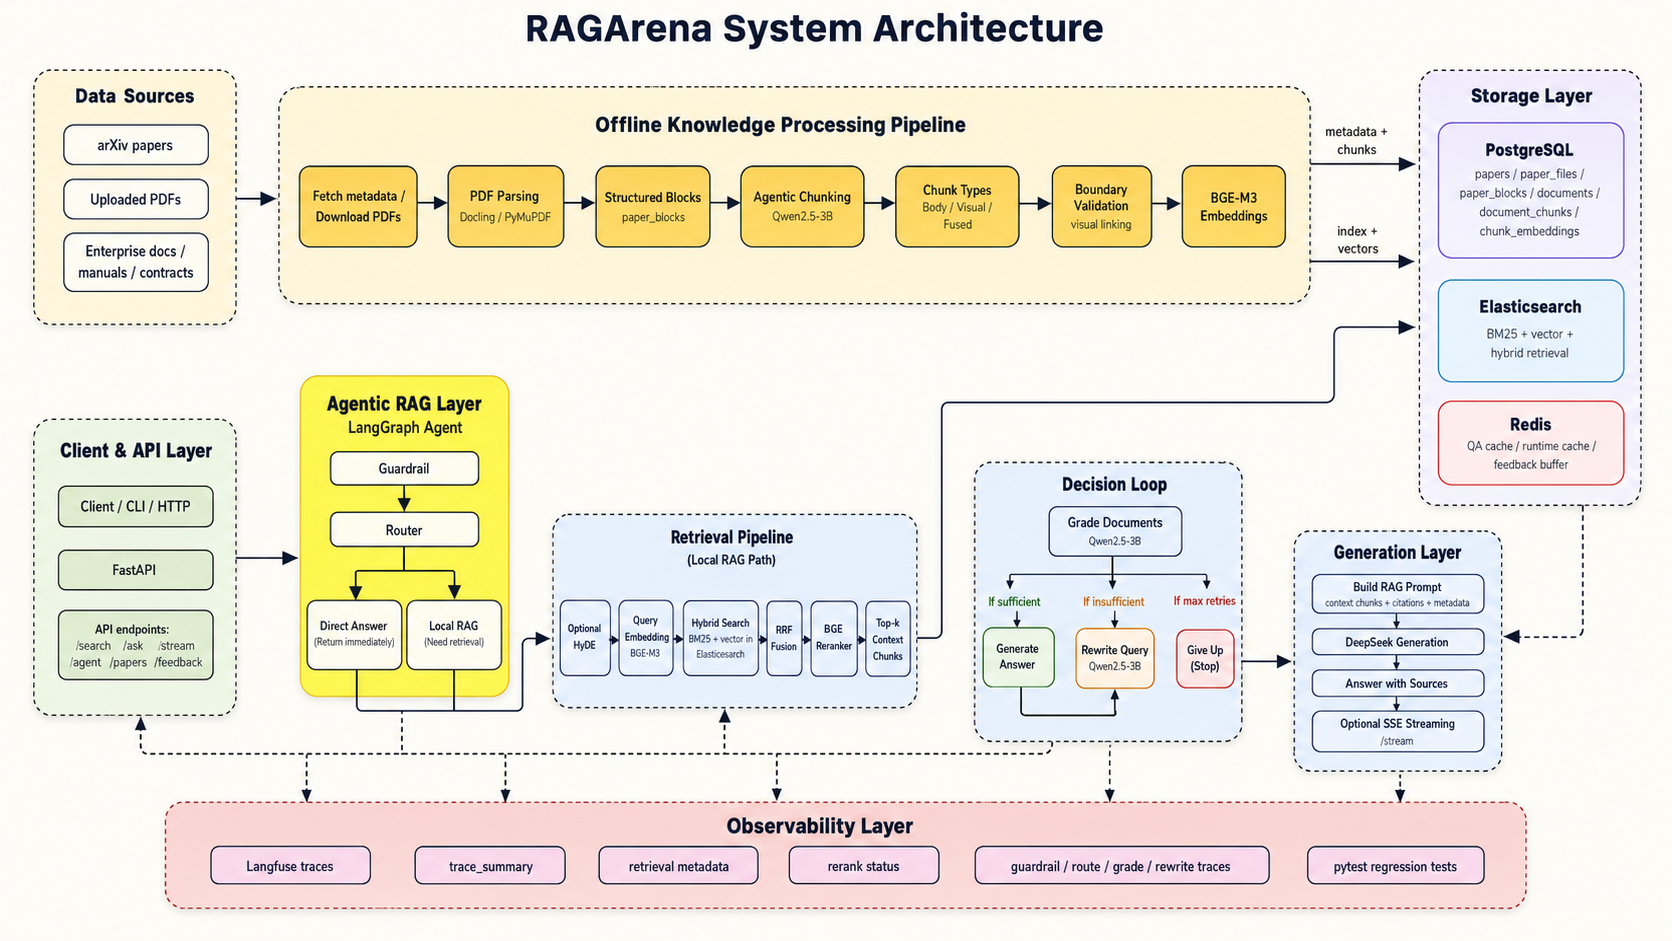
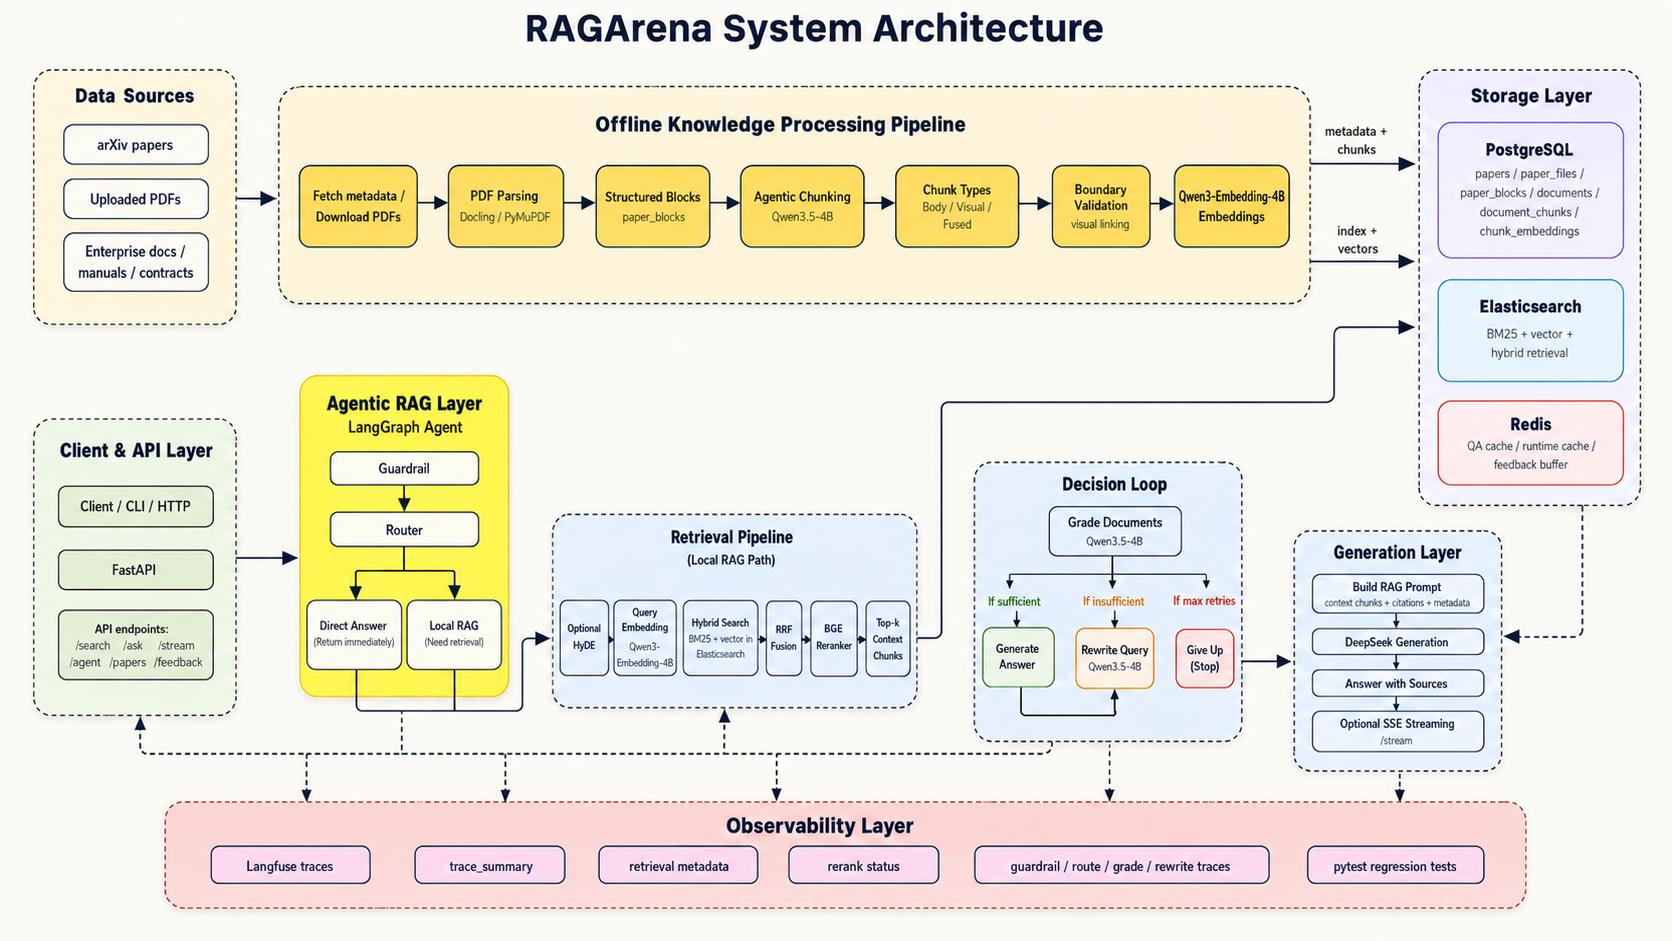
修改架构图

diff --git a/README.md b/README.md
@@ -32,6 +32,42 @@ RAGArena is a local-first Agentic RAG system for long PDFs such as research pape
 
 ![RAGArena system architecture](docs/images/ragarena-system-architecture.png)
 
+RAGArena is split into an offline knowledge-processing path and an online Agentic RAG path.
+
+Offline processing turns raw PDFs into searchable evidence:
+
+```text
+arXiv / uploaded PDFs / enterprise documents
+ -> fetch metadata and download PDFs
+ -> parse PDFs with Docling / PyMuPDF
+ -> store structured paper_blocks
+ -> plan agentic chunks with qwen3.5:4b
+ -> build body / visual / fused chunks
+ -> validate boundaries and link visual evidence
+ -> embed chunks with Qwen3-Embedding-4B
+ -> store metadata in PostgreSQL and search indexes in Elasticsearch
+```
+
+Online retrieval answers user queries through FastAPI and LangGraph:
+
+```text
+Client / CLI / HTTP
+ -> FastAPI endpoints
+ -> LangGraph guardrail and router
+ -> direct answer OR local RAG
+ -> optional HyDE
+ -> Qwen3-Embedding-4B query embedding
+ -> Elasticsearch BM25 + vector search
+ -> RRF fusion
+ -> BGE-Reranker
+ -> top-k context chunks
+ -> qwen3.5:4b document grading
+ -> generate answer OR rewrite query OR give up
+ -> answer with sources / optional SSE stream
+```
+
+PostgreSQL stores papers, files, parsed blocks, chunks, and embeddings. Elasticsearch serves BM25 and vector retrieval. Redis is used for QA/runtime cache and feedback buffering. Langfuse traces, trace summaries, retrieval metadata, rerank status, and pytest regression tests provide observability and evaluation support.
+
 ### Agent Workflow
 
 ![RAGArena LangGraph workflow](docs/images/ragarena-agent-workflow.png)